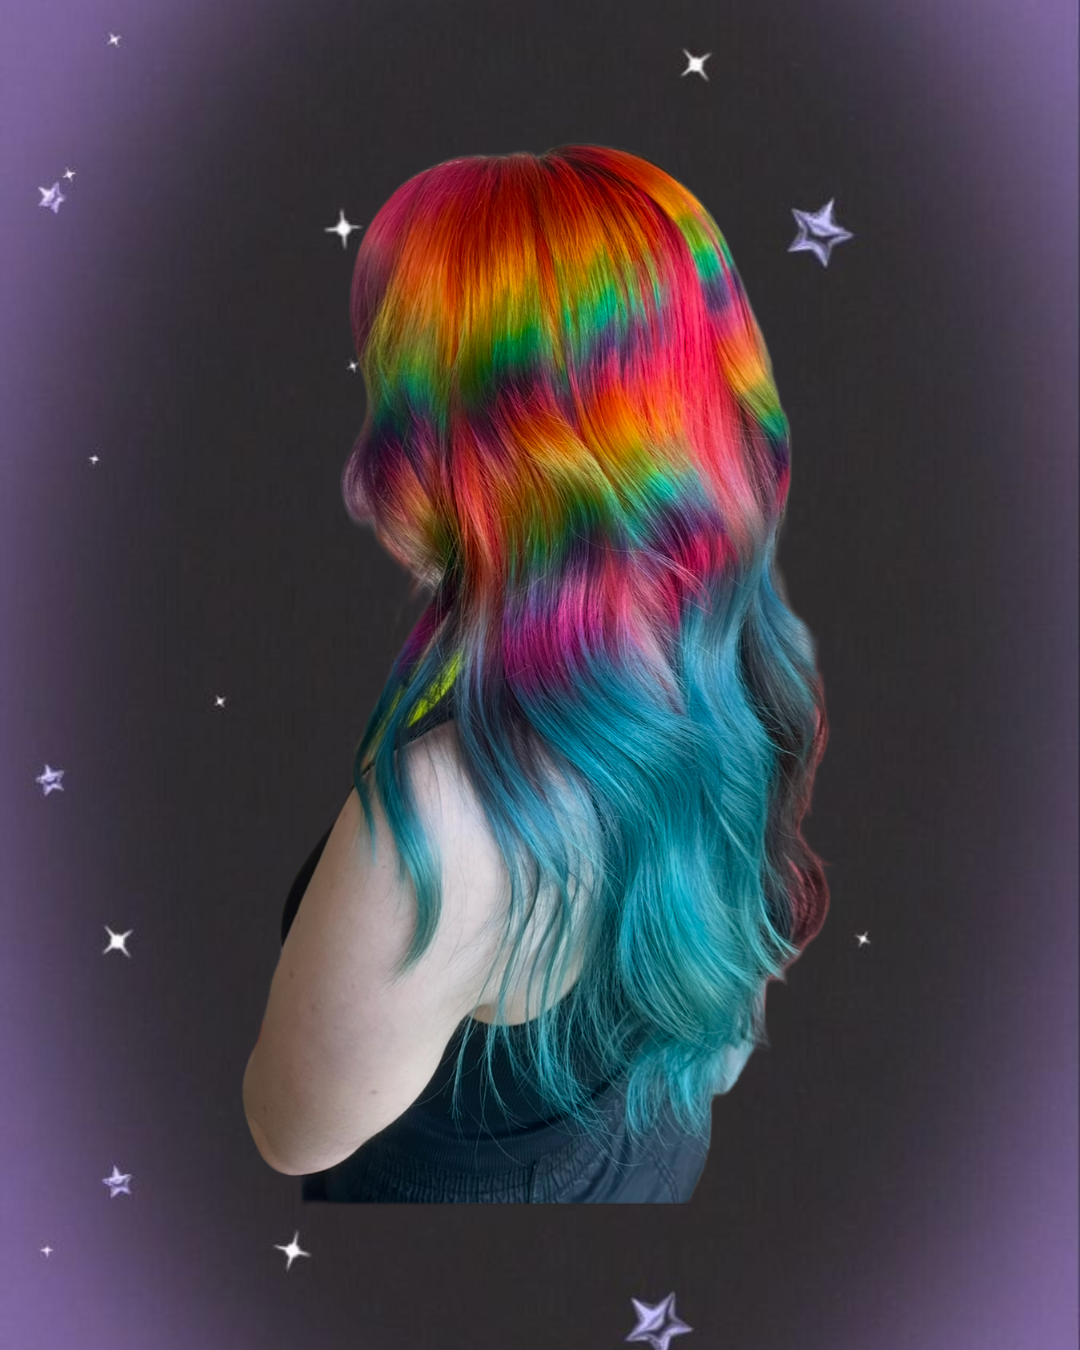
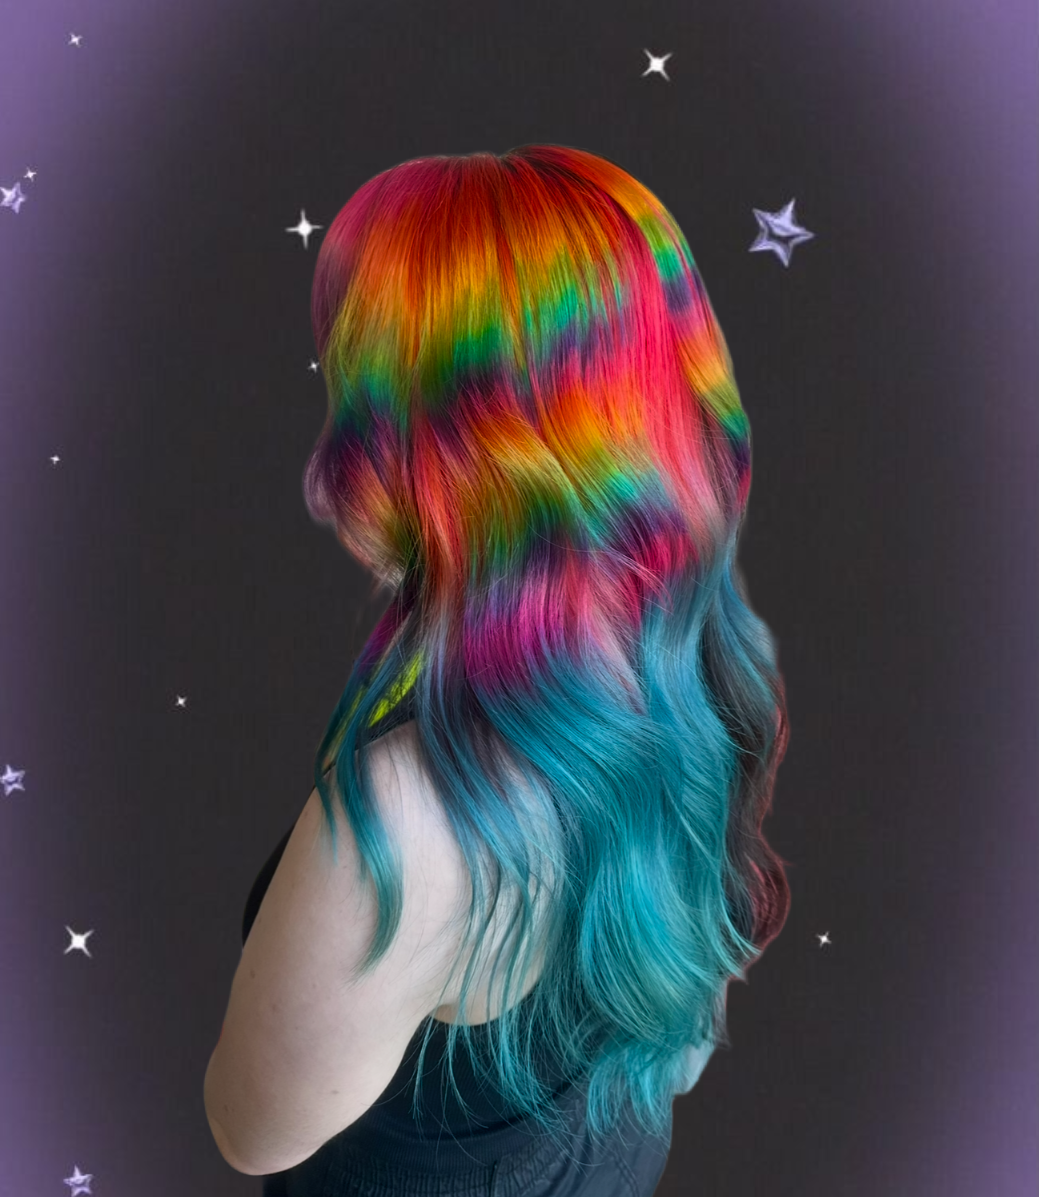
fix: salon images

diff --git a/src/components/SpaceCarousel.tsx b/src/components/SpaceCarousel.tsx
@@ -1,0 +1,127 @@
+'use client';
+
+import * as React from 'react';
+
+type Props = {
+  images: string[];
+  alt?: string;
+};
+
+export default function SpaceCarousel({
+  images,
+  alt = 'Salon space photo',
+}: Props) {
+  const [i, setI] = React.useState(0);
+  const trackRef = React.useRef<HTMLDivElement | null>(null);
+
+  const n = images?.length ?? 0;
+
+  const go = (idx: number) => {
+    if (!n) return;
+    setI(((idx % n) + n) % n);
+  };
+  const prev = () => go(i - 1);
+  const next = () => go(i + 1);
+
+  // Hooks must be ABOVE any early returns
+  React.useEffect(() => {
+    if (!n) return;
+    const el = trackRef.current;
+    if (!el) return;
+
+    const w = el.clientWidth;
+    el.scrollTo({ left: i * w, behavior: 'smooth' });
+  }, [i, n]);
+
+  React.useEffect(() => {
+    if (!n) return;
+    const el = trackRef.current;
+    if (!el) return;
+
+    const onResize = () => {
+      const w = el.clientWidth;
+      el.scrollTo({ left: i * w, behavior: 'auto' });
+    };
+
+    window.addEventListener('resize', onResize);
+    return () => window.removeEventListener('resize', onResize);
+  }, [i, n]);
+
+  // Early return AFTER hooks
+  if (!n) return null;
+
+  return (
+    <div className='w-full'>
+      <div className='relative mx-auto w-full max-w-[560px] md:max-w-[620px]'>
+        <div className='overflow-hidden rounded-3xl border border-neutral-800 bg-neutral-900'>
+          <div
+            ref={trackRef}
+            className='flex w-full overflow-x-hidden'
+            style={{ scrollSnapType: 'x mandatory' }}
+            aria-label='Salon space carousel'
+          >
+            {images.map((src, idx) => (
+              <div
+                key={src + idx}
+                className='w-full flex-none'
+                style={{ scrollSnapAlign: 'start' }}
+                aria-hidden={idx !== i}
+              >
+                <div className='aspect-[4/5] w-full'>
+                  {/* eslint-disable-next-line @next/next/no-img-element */}
+                  <img
+                    src={src}
+                    alt={idx === i ? alt : ''}
+                    className='h-full w-full object-cover'
+                    loading='lazy'
+                    draggable={false}
+                  />
+                </div>
+              </div>
+            ))}
+          </div>
+        </div>
+
+        {n > 1 && (
+          <>
+            <button
+              type='button'
+              onClick={prev}
+              aria-label='Previous image'
+              className='absolute left-3 top-1/2 -translate-y-1/2 rounded-xl border border-neutral-700 bg-neutral-950/70 px-3 py-2 text-sm text-neutral-100 backdrop-blur hover:bg-neutral-900'
+            >
+              ←
+            </button>
+
+            <button
+              type='button'
+              onClick={next}
+              aria-label='Next image'
+              className='absolute right-3 top-1/2 -translate-y-1/2 rounded-xl border border-neutral-700 bg-neutral-950/70 px-3 py-2 text-sm text-neutral-100 backdrop-blur hover:bg-neutral-900'
+            >
+              →
+            </button>
+          </>
+        )}
+
+        {n > 1 && (
+          <div className='mt-3 flex justify-center gap-2'>
+            {images.map((_, idx) => (
+              <button
+                key={idx}
+                type='button'
+                onClick={() => go(idx)}
+                aria-label={`Go to image ${idx + 1}`}
+                className={`h-2.5 w-2.5 rounded-full border ${
+                  idx === i
+                    ? 'bg-white border-white'
+                    : 'bg-transparent border-neutral-600 hover:border-neutral-400'
+                }`}
+              />
+            ))}
+          </div>
+        )}
+      </div>
+    </div>
+  );
+}

diff --git a/src/app/page.tsx b/src/app/page.tsx
@@ -3,6 +3,15 @@
 import Link from 'next/link';
 import * as React from 'react';
 
+import SpaceCarousel from '@/components/SpaceCarousel';
+
+const SPACE_IMAGES = [
+  '/images/space/IMG_7823.jpg',
+  '/images/space/IMG_7851.jpg',
+  '/images/space/IMG_7845.jpg',
+  '/images/space/IMG_7818.jpg',
+];
+
 const GALLERY_IMAGES = [
   '/images/gallery/AG1.png',
   '/images/gallery/SG4.jpg',
@@ -149,6 +158,7 @@ export default function HomePage() {
           </div>
         </div>
       </section>
+
       {/* OUR SPACE */}
       <section className='relative'>
         <div className='mx-auto grid max-w-6xl grid-cols-1 gap-10 px-4 py-14 md:grid-cols-2 md:py-20'>
@@ -180,13 +190,18 @@ export default function HomePage() {
                 Come in, get comfortable, and let’s make hair that feels like
                 you.
               </p>
+
+              <a
+                href='https://www.instagram.com/ninelivessalon/?hl=en'
+                target='_blank'
+                rel='noreferrer'
+                className='mt-6 inline-flex items-center justify-center rounded-xl border border-neutral-700 bg-pink-500 px-5 py-3 text-sm font-semibold text-neutral-100 transition-colors hover:bg-neutral-800'
+              >
+                Follow on Instagram
+              </a>
             </div>
           </div>
-
-          {/* Big image placeholder */}
-          <div className='relative'>
-            <div className='aspect-[4/5] w-full rounded-3xl bg-neutral-800 ring-1 ring-neutral-700' />
-          </div>
+          <SpaceCarousel images={SPACE_IMAGES} alt='Nine Lives Salon space' />
         </div>
       </section>
 
